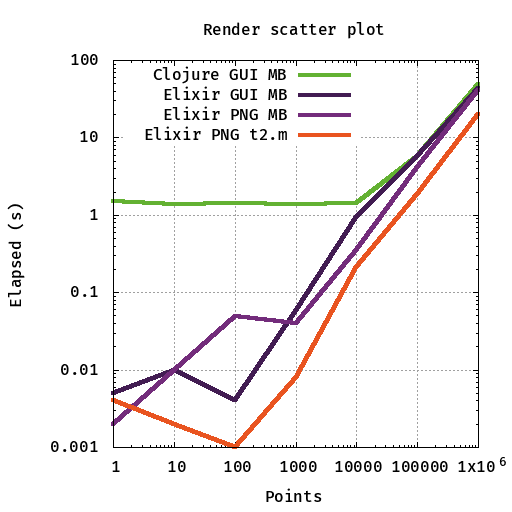
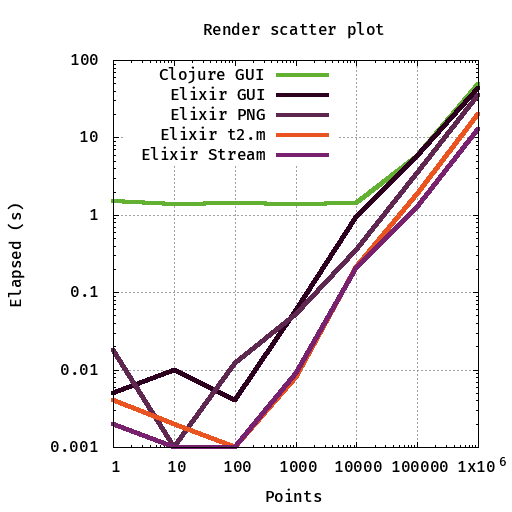
Refactor Enum to Streams - closes #3 (#6)
* Refactor datasets to Streams. Closes #3

* Refactor to Streams

Changed region(s): [[0.2188, 0.1562, 0.9375, 0.875], [0.2812, 0.125, 0.6875, 0.3125], [0.5312, 0.75, 0.5625, 0.7812]]

diff --git a/README.md b/README.md
@@ -1,6 +1,6 @@
 # Gnuplot Elixir
 
-A simple interface from [Elixir data][7] to the [Gnuplot graphing utility][1] that uses [Erlang Ports][5] to transmit data from your application to Gnuplot. Datasets are streamed directly to STDIN without temporary files and you can plot [1M points in 20 seconds](examples/stress.exs) on an AWS t2.medium 2 vCPU server.
+A simple interface from [Elixir data][7] to the [Gnuplot graphing utility][1] that uses [Erlang Ports][5] to transmit data from your application to Gnuplot. Datasets are streamed directly to STDIN without temporary files and you can plot [1M points in 12.7 seconds](examples/stress.exs).
 
 Please visit the [Gnuplot demos gallery](http://gnuplot.sourceforge.net/demo/) to see all the possibilities, the [manual which describes the grammar](http://www.gnuplot.info/docs_5.2/Gnuplot_5.2.pdf), and the [examples folder](examples/).
 
@@ -11,7 +11,7 @@ This is a conversion of the [Clojure Gnuplot library][4] by [aphyr][2].
 The `plot` function takes two arguments:
 
 * a list of commands (each of which is a list of terms)
-* a list of datasets (not required when plotting functions)
+* a list of Streams or Enumerable datasets (not required when plotting functions)
 
 Commands are lists of terms that normally start with an atom such as `:set`. They may be written as lists or [Word lists](https://elixir-lang.org/getting-started/sigils.html#word-lists) - the following lines are equivalent:
 
@@ -44,7 +44,7 @@ Gnuplot will by default open a window containing your plot:
 
 ### PNG of two datasets
 
-Write two datasets to a file:
+Write two datasets to a PNG file:
 
 ```elixir
 G.plot([
@@ -56,7 +56,7 @@ G.plot([
     G.list(
       ["-", :title, "uniform", :with, :points],
       ["-", :title, "normal", :with, :points])]
-  ], 
+  ],
   [
         for(n <- 0..200, do: [n, n * :rand.uniform()]),
         for(n <- 0..200, do: [n, n * :rand.normal()])
@@ -95,7 +95,7 @@ by adding `gnuplot` to your list of dependencies in `mix.exs`:
 ```elixir
 def deps do
   [
-    {:gnuplot, "~> 0.19.71"}
+    {:gnuplot, "~> 0.19.72"}
   ]
 end
 ```
@@ -110,17 +110,19 @@ Some tests create plots which require `gnuplot` to be installed. They can be be 
 
 ## Performance
 
-The performance of the library on a MacBook Air is comparable to the Clojure version when `gnuplot` draws to a GUI. It is a little faster when writing directly to a PNG. It is faster still when running on a server. The times below are in milliseconds. Each plot was made in increasing order of the number of points and after a cold start of the VM.
+The performance of the library on a MacBook Air is comparable to the Clojure version when `gnuplot` draws to a GUI. It is a little faster when writing directly to a PNG when running on a server. The times below are in milliseconds. Each plot was made in increasing order of the number of points and after a cold start of the VM. The last two columns show the refactoring from Enumerable to Streams.
 
-| Points | Clojure GUI | Elixir GUI | Elixir PNG | Ubuntu 16.04 |
-| -----: | ----------: | ---------: | ---------: | -----------: |
-|      1 |       1,487 |          5 |          2 |            4 |
-|     10 |       1,397 |         10 |         10 |           <1 |
-|    1e2 |       1,400 |          4 |         49 |            1 |
-|    1e3 |       1,381 |         59 |         40 |            8 |
-|    1e4 |       1,440 |        939 |        349 |          211 |
-|    1e5 |       5,784 |      5,801 |      4,091 |        1,873 |
-|    1e6 |      49,275 |     43,464 |     41,521 |       19,916 |
+| Points | Clojure GUI | Elixir GUI | Elixir PNG | Elixir Enum   | Elixir Stream |
+| -----: | ----------: | ---------: | ---------: | ------------: | ------------: |
+|      1 |       1,487 |          5 |         18 |             4 |             5 |
+|     10 |       1,397 |         10 |          1 |            <1 |             1 |
+|    1e2 |       1,400 |          4 |         12 |             1 |             1 |
+|    1e3 |       1,381 |         59 |         52 |             8 |            10 |
+|    1e4 |       1,440 |        939 |        348 |           211 |           211 |
+|    1e5 |       5,784 |      5,801 |      3,494 |         1,873 |         1,313 |
+|    1e6 |      49,275 |     43,464 |     35,505 |        19,916 |        12,775 |
+|        |     MacBook |    MacBook |    MacBook |  Ubuntu 16.04 |  Ubuntu 16.04 |
+|        |  2.5 GHz i5 | 2.5 GHz i5 | 2.5 GHz i5 | 3.3 GHz 2vCPU | 3.3 GHz 2vCPU |
 
 ![performance](docs/perf.PNG)
 
@@ -130,7 +132,8 @@ clojure_gui = [1.487, 1.397, 1.400, 1.381, 1.440, 5.784, 49.275]
 elixir_gui  = [0.005, 0.010, 0.004, 0.059, 0.939, 5.801, 43.464]
 elixir_png  = [0.002, 0.010, 0.049, 0.040, 0.349, 4.091, 41.521]
 ubuntu_t2m = [0.004, 0.002, 0.001, 0.008, 0.211, 1.873, 19.916]
-datasets    = for ds <- [clojure_gui, elixir_gui, elixir_png, ubuntu_t2m], do: Enum.zip(points, ds)
+ubuntu_stream = [0.002, 0.001, 0.001, 0.009, 0.204, 1.279, 12.858]
+for ds <- [clojure_gui, elixir_gui, elixir_png, ubuntu_t2m, ubuntu_stream], do: Enum.zip (points, ds)
 
 G.plot([
   [:set, :title, "Render scatter plot"],
@@ -140,14 +143,16 @@ G.plot([
   ~w(set logscale xy)a,
   ~w(set grid xtics ytics)a,
   ~w(set style line 1 lw 4 lc '#63b132')a,
-  ~w(set style line 2 lw 4 lc '#421C52')a,
-  ~w(set style line 3 lw 4 lc '#732C7B')a,
+  ~w(set style line 2 lw 4 lc '#2C001E')a,
+  ~w(set style line 3 lw 4 lc '#5E2750')a,
   ~w(set style line 4 lw 4 lc '#E95420')a,
+  ~w(set style line 5 lw 4 lc '#77216F')a,
   [:plot, G.list(
-      ["-", :title, "Clojure GUI", :with, :lines, :ls, 1],
-      ["-", :title, "Elixir GUI",  :with, :lines, :ls, 2],
-      ["-", :title, "Elixir PNG",  :with, :lines, :ls, 3],
-      ["-", :title, "Elixir PNG t2.m", :with, :lines, :ls, 4]
+    ["-", :title, "Clojure GUI", :with, :lines, :ls, 1],
+    ["-", :title, "Elixir GUI", :with, :lines, :ls, 2],
+    ["-", :title, "Elixir PNG", :with, :lines, :ls, 3],
+    ["-", :title, "Elixir t2.m", :with, :lines, :ls, 4],
+    ["-", :title, "Elixir Stream", :with, :lines, :ls, 5]
   )]], datasets
 ])
 ```
